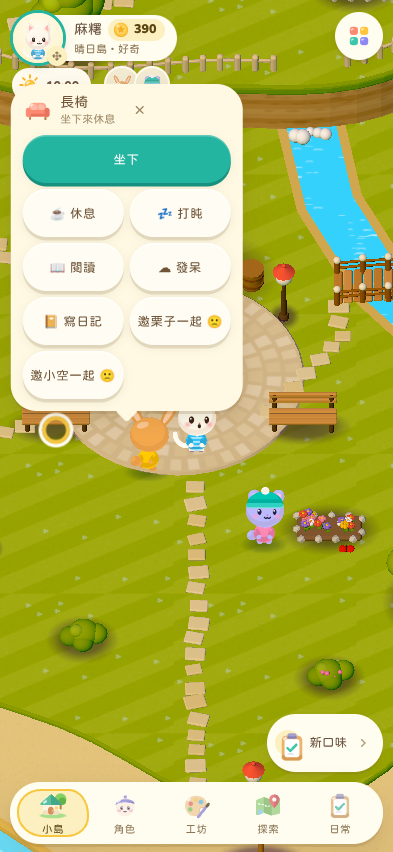
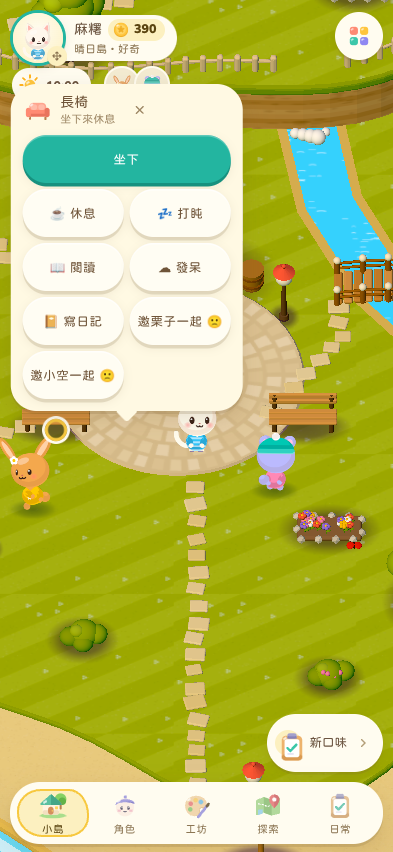
16.9: test 15 starts with everyone rested (the controlled character no longer walks home to bed mid-test)
Claude-Session: https://claude.ai/code/session_01PAZxUZ1nduqVoNWZ69f7R7

diff --git a/game/tests/v16/run.js b/game/tests/v16/run.js
@@ -241,7 +241,7 @@ const BIG = `(async () => { const cv = document.createElement('canvas'); cv.widt
       /* 16.2.1 drag freeze: real touch (CDP) — pick up, then set down / toss / throw; afterwards the character must walk again */
       const cdp = await page.context().newCDPSession(page);
       const T = (type, pts) => cdp.send('Input.dispatchTouchEvent', { type, touchPoints: pts.map(([x, y]) => ({ x, y, id: 1, radiusX: 4, radiusY: 4, force: 1 })) });
-      await page.evaluate(async () => { if (OC.Events.current) OC.Events.end('t'); OC.Store.s.life.ev.lastAny = Date.now() + 3.6e6; if (OC.World.area.id !== 'isle') { OC.WorldUI.travel('isle', { instant: true }); await new Promise((r) => setTimeout(r, 2500)); } const all = OC.Chars.all(); OC.Chars.setActive(all[0].id); all.forEach((c) => OC.Brain.setControl(c.id, 'manual')); OC.UI.stack.slice().forEach(() => OC.UI.popLayer && OC.UI.popLayer()); window.__ocActFix = []; });
+      await page.evaluate(async () => { if (OC.Events.current) OC.Events.end('t'); OC.Store.s.life.ev.lastAny = Date.now() + 3.6e6; if (OC.World.area.id !== 'isle') { OC.WorldUI.travel('isle', { instant: true }); await new Promise((r) => setTimeout(r, 2500)); } const all = OC.Chars.all(); OC.Chars.setActive(all[0].id); all.forEach((c) => { OC.Brain.setControl(c.id, 'manual'); Object.assign(c.needs, { sleep: 90, energy: 90, food: 90, comfort: 80 }); });   /* rested: nobody walks home to bed in the middle of the test */ OC.UI.stack.slice().forEach(() => OC.UI.popLayer && OC.UI.popLayer()); window.__ocActFix = []; });
       await page.waitForTimeout(1500);
       const where = (id) => page.evaluate((id) => { const a = id ? OC.App.actorOf(id) : OC.App.player; const s = OC.App.screenOf(a); const top = OC.World.project(a.x, a.y, a.lvl || 0, a.gy - (a.lvl || 0) * OC.World.HY + 40 * (a.tk || 1)); return { x: Math.round(top.x), y: Math.round(top.y), s }; }, id);
       async function grabAndRelease(id, kind) {
